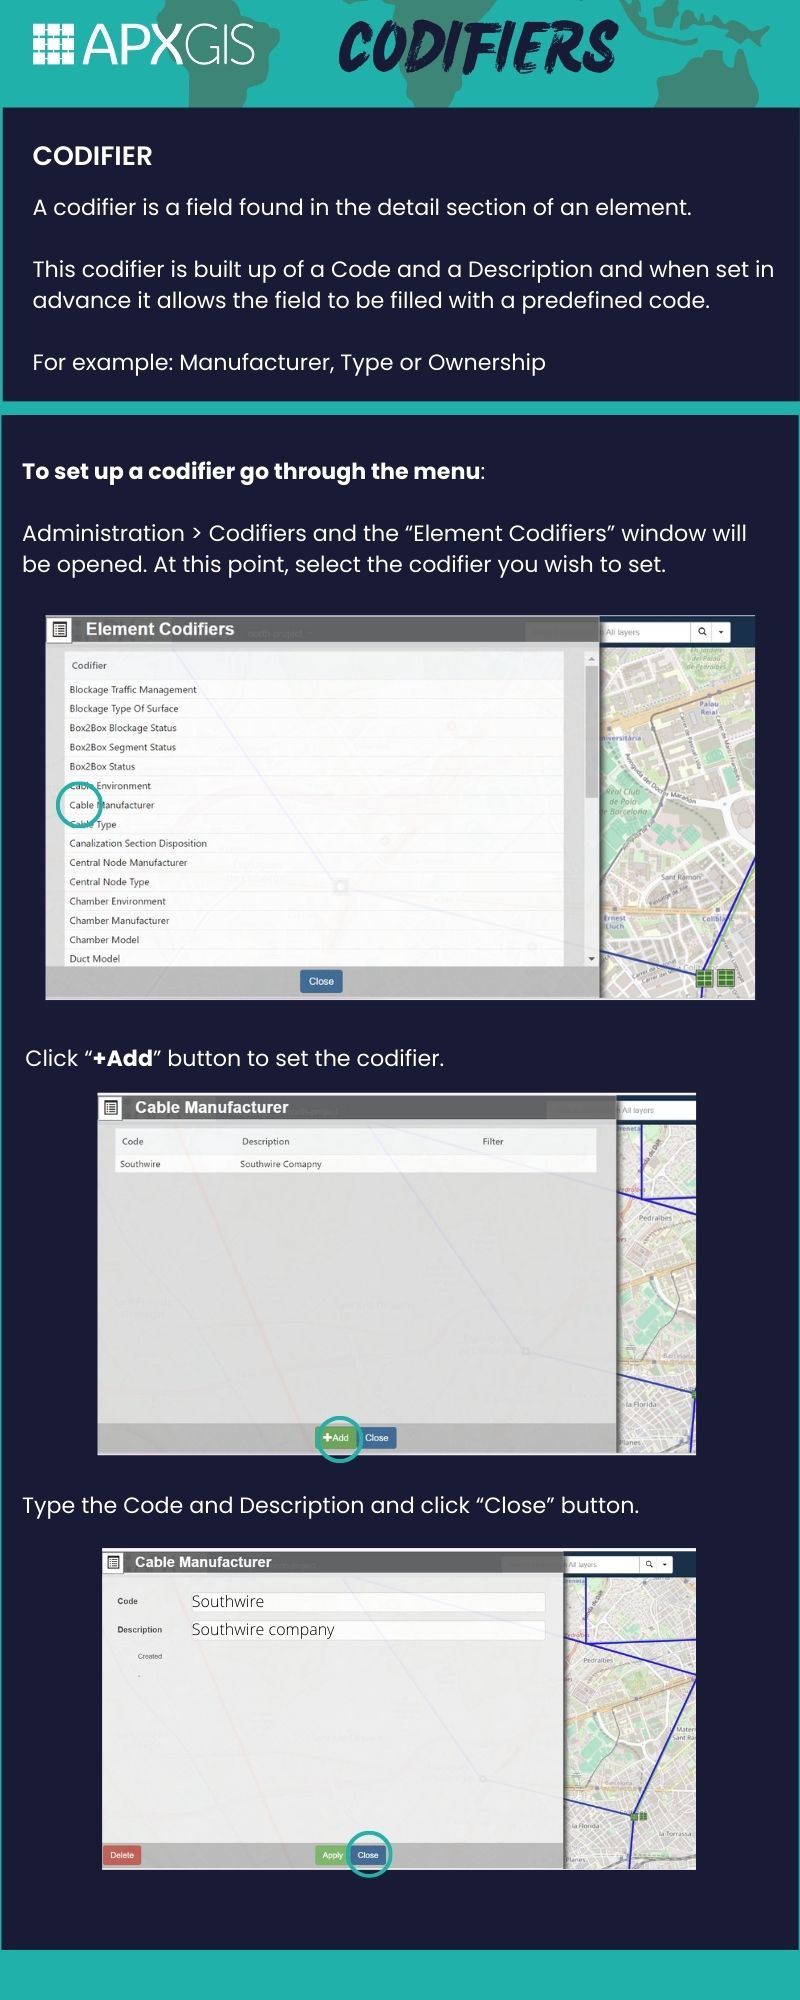
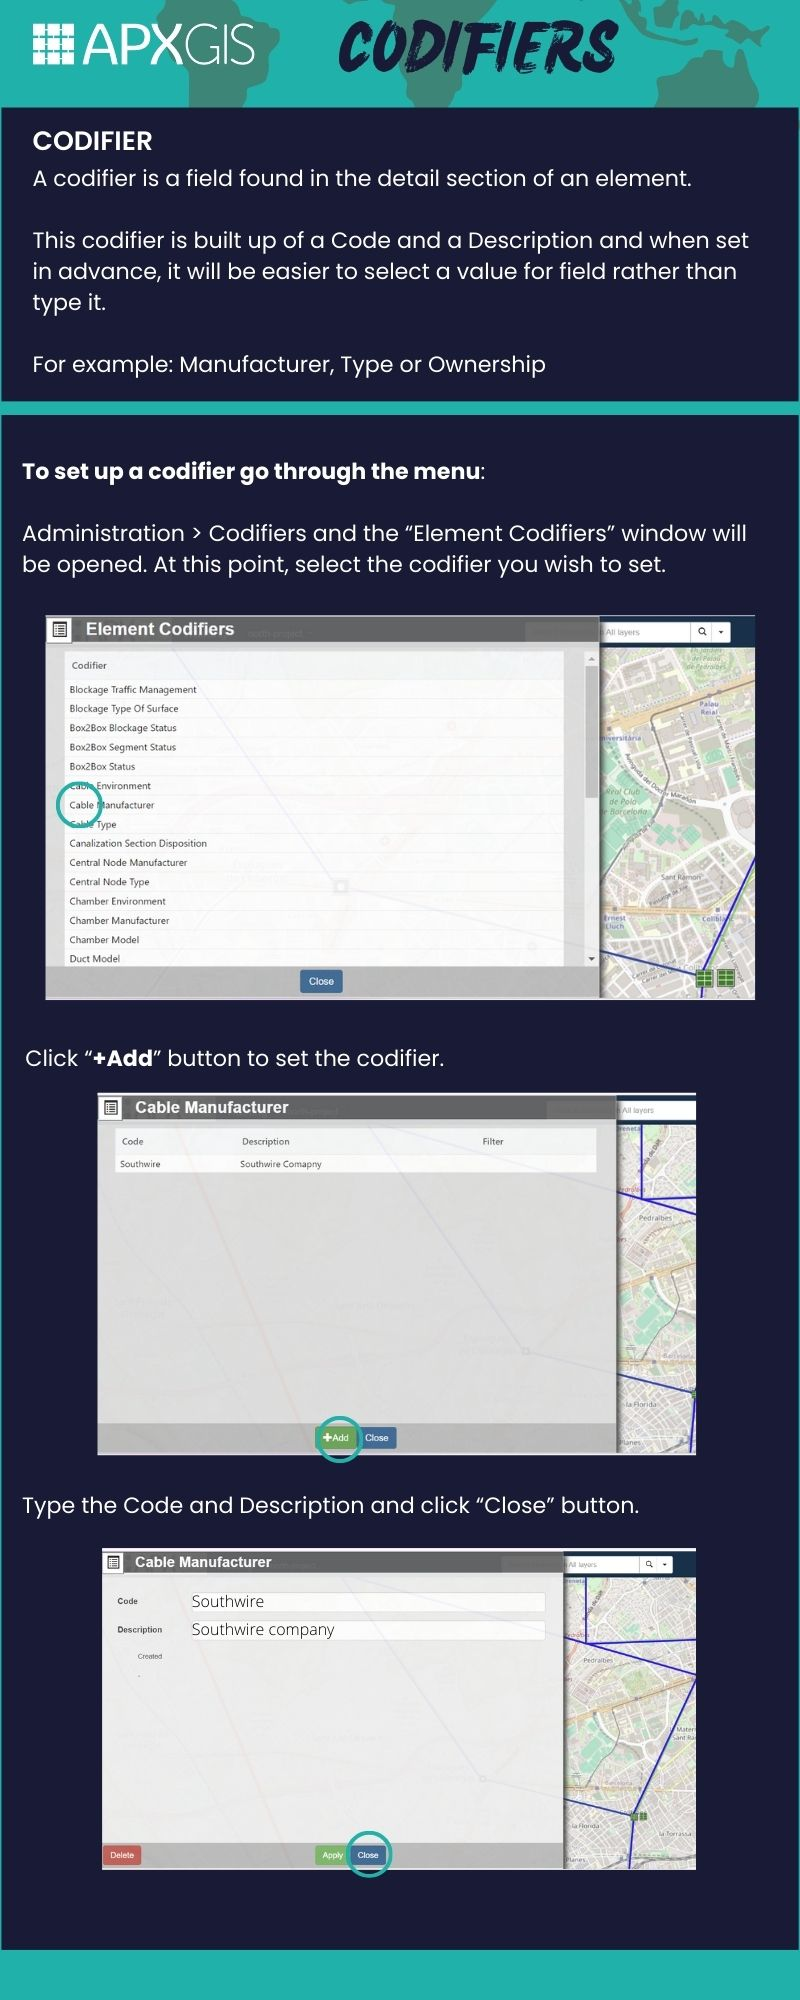
Changes

Changed region(s): [[0.0, 0.062, 0.9375, 0.186]]

diff --git a/docs/07-tutorial elements/01-codifier/01-assign-codifier-element.md b/docs/07-tutorial elements/01-codifier/01-assign-codifier-element.md
@@ -1,0 +1,85 @@
+---
+sidebar_position: 1
+---
+
+# Assign codifier to an element
+
+This guide will help you create assign a **Codifier** to an **Element**.
+
+## **Prerequisites**
+1.	**User ID** and **Password** to access APXGIS programme.
+2.	**Codifier** set up with values.
+3.  **Element (s)** created.
+
+------------
+
+**Version**: 00
+**Date**: January-2024
+
+------------
+## **Step by Step**
+
+
+1\. Navigate to [https://app.apx-gis.net/#/](https://app.apx-gis.net/#/)
+
+
+**Alert:** This example will explain how to add a value in an Element Type codifier (Splitter box). the procedure is similar for the different element types and their codifiers.
+
+
+2\. Click "**Administration**" option.
+
+![](https://ajeuwbhvhr.cloudimg.io/colony-recorder.s3.amazonaws.com/files/2024-01-19/41327673-e079-4227-b669-ad4b77b07ede/ascreenshot.jpeg?tl_px=0,0&br_px=825,461&force_format=png&width=826&wat_scale=73&wat=1&wat_opacity=1&wat_gravity=northwest&wat_url=https://colony-recorder.s3.amazonaws.com/images/watermarks/14B8A6_standard.png&wat_pad=86,45)
+
+
+3\. Click "**Codifiers**" option.
+
+![](https://ajeuwbhvhr.cloudimg.io/colony-recorder.s3.amazonaws.com/files/2024-01-19/5f91c921-2de9-4891-aac0-02771f2c38c2/user_cropped_screenshot.jpeg?tl_px=0,10&br_px=1123,780&force_format=png&width=1120.0&wat=1&wat_opacity=1&wat_gravity=northwest&wat_url=https://colony-recorder.s3.amazonaws.com/images/watermarks/14B8A6_standard.png&wat_pad=41,411)
+
+
+4\. Click the codifier according to the elemet type you wish to add a codifier valu. For this example "**Splitter Box Type**" element codifier was selected..
+
+![](https://ajeuwbhvhr.cloudimg.io/colony-recorder.s3.amazonaws.com/files/2024-01-19/f05a7ac0-e7cd-4e73-8547-8e1e58099af3/user_cropped_screenshot.jpeg?tl_px=0,0&br_px=1115,887&force_format=png&width=1120.0&wat=1&wat_opacity=1&wat_gravity=northwest&wat_url=https://colony-recorder.s3.amazonaws.com/images/watermarks/14B8A6_standard.png&wat_pad=170,634)
+
+
+5\. Verify that the codifier has values assigned. If not please refer to "**Element Types &gt; Codifiers &gt; Create new values for a Codifier**". For this example, the codifier "**Splitter box type**" has values asigned.
+
+![](https://ajeuwbhvhr.cloudimg.io/colony-recorder.s3.amazonaws.com/files/2024-01-19/fc29233a-0fa1-4a54-912f-fc6bcdf00b3c/user_cropped_screenshot.jpeg?tl_px=0,0&br_px=1114,887&force_format=png&width=1120.0&wat=1&wat_opacity=1&wat_gravity=northwest&wat_url=https://colony-recorder.s3.amazonaws.com/images/watermarks/14B8A6_standard.png&wat_pad=384,829)
+
+
+6\. Click "**Close**" button.
+
+![](https://ajeuwbhvhr.cloudimg.io/colony-recorder.s3.amazonaws.com/files/2024-01-19/915c333c-facf-488b-b51a-08cca919a8d0/ascreenshot.jpeg?tl_px=0,0&br_px=1719,887&force_format=png&width=1120.0&wat=1&wat_opacity=1&wat_gravity=northwest&wat_url=https://colony-recorder.s3.amazonaws.com/images/watermarks/14B8A6_standard.png&wat_pad=216,524)
+
+
+7\. At this point, values assigned to the codifier "**Splitter box type**" exist. Search for the element to which you wish to assign the codifier value and click it.
+
+![](https://ajeuwbhvhr.cloudimg.io/colony-recorder.s3.amazonaws.com/files/2024-01-19/d0c06918-2d2a-42f0-a853-4d585de22dad/ascreenshot.jpeg?tl_px=124,0&br_px=1843,887&force_format=png&width=1120.0&wat=1&wat_opacity=1&wat_gravity=northwest&wat_url=https://colony-recorder.s3.amazonaws.com/images/watermarks/14B8A6_standard.png&wat_pad=524,245)
+
+
+8\. Click over the name of the element type you wish to assign the codifier value. for this example splitter box"- **nopg-splitter-20**" was clicked.
+
+![](https://ajeuwbhvhr.cloudimg.io/colony-recorder.s3.amazonaws.com/files/2024-01-19/51dc39e7-47e7-41f1-91ea-e22b84150094/ascreenshot.jpeg?tl_px=335,17&br_px=1482,658&force_format=png&width=1120.0&wat=1&wat_opacity=1&wat_gravity=northwest&wat_url=https://colony-recorder.s3.amazonaws.com/images/watermarks/14B8A6_standard.png&wat_pad=524,277)
+
+
+9\. Click "**Details**" option.
+
+![](https://ajeuwbhvhr.cloudimg.io/colony-recorder.s3.amazonaws.com/files/2024-01-19/a18f8b53-cfd1-4424-a6a1-1c4b254496bf/ascreenshot.jpeg?tl_px=0,131&br_px=825,592&force_format=png&width=826&wat_scale=73&wat=1&wat_opacity=1&wat_gravity=northwest&wat_url=https://colony-recorder.s3.amazonaws.com/images/watermarks/14B8A6_standard.png&wat_pad=13,204)
+
+
+10\. Find the codifier you want to assign, for this example "**Type**" codifier was selected. Click "**Type**" dropdown.
+
+![](https://ajeuwbhvhr.cloudimg.io/colony-recorder.s3.amazonaws.com/files/2024-01-19/078bfab4-65bc-4235-849c-2cf146425bc4/ascreenshot.jpeg?tl_px=0,117&br_px=1376,887&force_format=png&width=1120.0&wat=1&wat_opacity=1&wat_gravity=northwest&wat_url=https://colony-recorder.s3.amazonaws.com/images/watermarks/14B8A6_standard.png&wat_pad=369,312)
+
+
+11\. The values of the codifier type, which were verified in the first steps of this document, will be displayed. Select the corresponding codifier value. For this example "**Bare Fiber Optical Splitter**" was selected.
+
+![](https://ajeuwbhvhr.cloudimg.io/colony-recorder.s3.amazonaws.com/files/2024-01-20/618632f3-7bc3-4ffd-8cc4-a507dab3654b/user_cropped_screenshot.jpeg?tl_px=0,0&br_px=949,880&force_format=png&width=1120.0&wat=1&wat_opacity=1&wat_gravity=northwest&wat_url=https://colony-recorder.s3.amazonaws.com/images/watermarks/14B8A6_standard.png&wat_pad=218,654)
+
+
+12\. Click "**Apply**" button.
+
+![](https://ajeuwbhvhr.cloudimg.io/colony-recorder.s3.amazonaws.com/files/2024-01-19/b5a6b047-a7d9-4cc4-a55a-4249ee874361/ascreenshot.jpeg?tl_px=0,0&br_px=1719,887&force_format=png&width=1120.0&wat=1&wat_opacity=1&wat_gravity=northwest&wat_url=https://colony-recorder.s3.amazonaws.com/images/watermarks/14B8A6_standard.png&wat_pad=154,527)
+
+
+**Tip:** Codifier was assigned to elent
+

diff --git a/docs/06-tutorial-element types/09-codifiers/00-definition.md b/docs/06-tutorial-element types/09-codifiers/00-definition.md
@@ -9,7 +9,7 @@ sidebar_position: 0
 **Codifier** is a field found in the detail section of an element.
 
 
-This codifier is built up of a Code and a Description and when set in advance it allows the field to be filled with a predefined code.
+This codifier is built up of a Code and a Description and when set in advance, it will be easier to select a value for field rather than type it.
 
 ## **Prerequisites**
 1.	No prerequisites.
